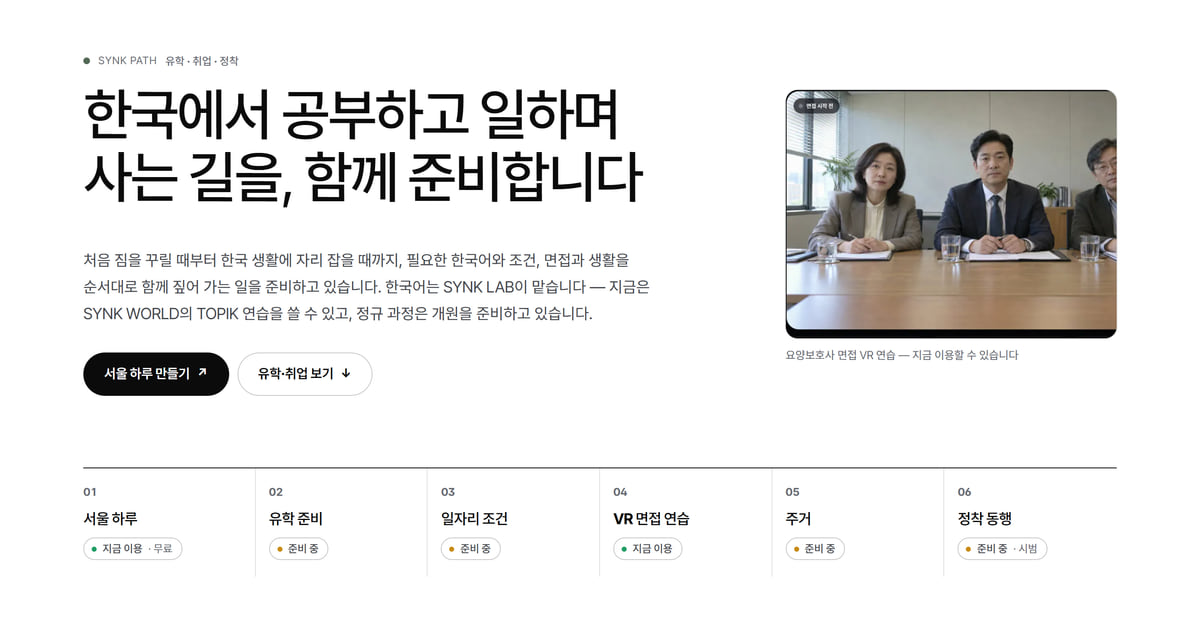
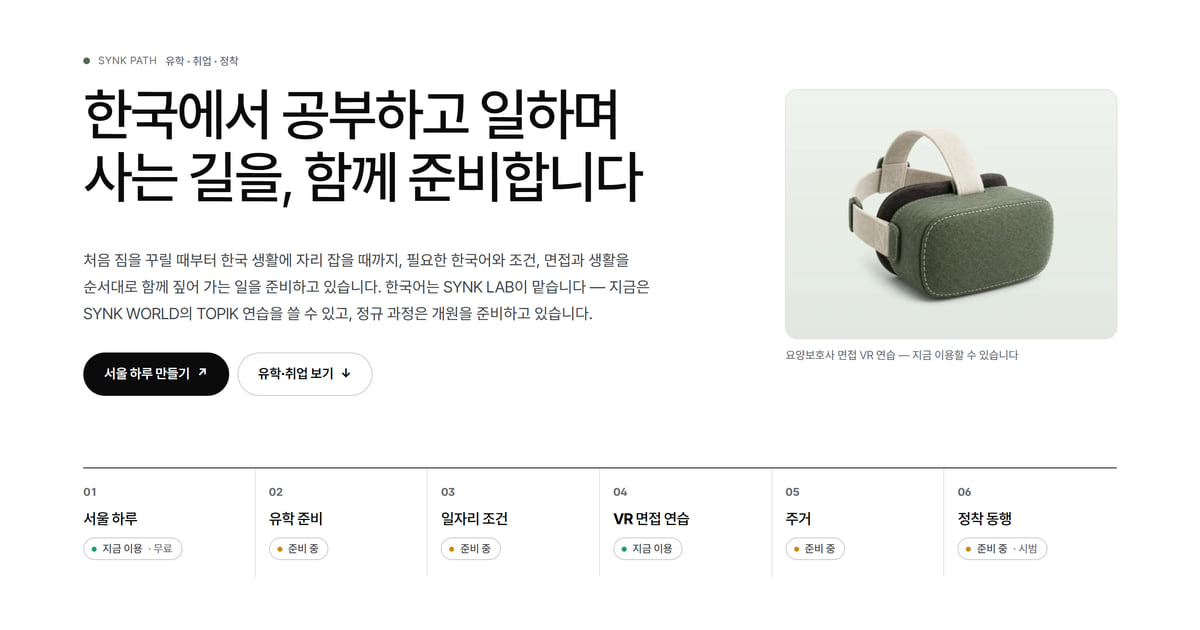
PATH opens with the green felt VR headset instead of the interviewers' faces: the hero of /path/ and /en/path/ shows the felt headset on the PATH stage colour (new 1200x900 picture and its 320/480/800 sizes), with the alt text that picture had in v10; the share images path-ko.jpg and path-en.jpg are

Changed region(s): [[0.6475, 0.1206, 0.9558, 0.5429]]

diff --git a/path/index.html b/path/index.html
@@ -10,7 +10,7 @@
 <link rel="canonical" href="https://synk.im/path/">
 <link rel="alternate" hreflang="ko" href="https://synk.im/path/"><link rel="alternate" hreflang="en" href="https://synk.im/en/path/"><link rel="alternate" hreflang="x-default" href="https://synk.im/path/">
 <meta property="og:type" content="website"><meta property="og:url" content="https://synk.im/path/"><meta property="og:title" content="SYNK PATH — 한국에서 공부하고 일하며 사는 길을, 함께 준비합니다"><meta property="og:description" content="SYNK PATH는 한국에서 공부하고 일하며 사는 길을 함께 준비합니다. 서울 하루 일정과 요양보호사 면접 VR 연습은 지금 써 볼 수 있고, 유학 준비와 일자리 조건 알아보기, 한국 생활 정착을 준비하고 있습니다.">
-<meta property="og:image" content="https://synk.im/assets/v10/og/path-ko.jpg?v=03eef2e7d2b2"><meta property="og:image:width" content="1200"><meta property="og:image:height" content="630"><meta property="og:image:alt" content="SYNK PATH 첫 화면 — 「한국에서 공부하고 일하며 사는 길을, 함께 준비합니다」와 VR 면접 연습 장면"><meta name="twitter:card" content="summary_large_image">
+<meta property="og:image" content="https://synk.im/assets/v10/og/path-ko.jpg?v=a5ef873d6728"><meta property="og:image:width" content="1200"><meta property="og:image:height" content="630"><meta property="og:image:alt" content="SYNK PATH 첫 화면 — 「한국에서 공부하고 일하며 사는 길을, 함께 준비합니다」와 초록 펠트 VR 헤드셋"><meta name="twitter:card" content="summary_large_image">
 <link rel="icon" type="image/png" sizes="16x16" href="/assets/favicon-synk-20260919-16.png"><link rel="icon" type="image/png" sizes="32x32" href="/assets/favicon-synk-20260919-32.png"><link rel="icon" type="image/png" sizes="48x48" href="/assets/favicon-synk-20260919-48.png">
 <link rel="preload" href="/assets/v10/suit-v10.woff2" as="font" type="font/woff2" crossorigin>
 <link rel="stylesheet" href="/assets/v10/site.css?v=bf743bfce9da">
@@ -30,7 +30,7 @@
 <section class="p-hero" id="top" aria-labelledby="p-title"><span id="path" class="sr-only" aria-hidden="true"></span><div class="wrap"><div class="p-hero-grid">
 <div class="p-hero-head"><p class="label"><i class="dot" aria-hidden="true"></i><span class="en">SYNK PATH</span><span>유학 · 취업 · 정착</span></p><h1 class="p-title" id="p-title"><span>한국에서 공부하고 일하며</span> <span>사는 길을, 함께 준비합니다</span></h1></div>
 <div class="p-hero-copy"><p class="lead">처음 짐을 꾸릴 때부터 한국 생활에 자리 잡을 때까지, 필요한 한국어와 조건, 면접과 생활을 순서대로 함께 짚어 가는 일을 준비하고 있습니다. 한국어는 SYNK LAB이 맡습니다 — 지금은 SYNK WORLD의 TOPIK 연습을 쓸 수 있고, 정규 과정은 개원을 준비하고 있습니다.</p><div class="btns"><a class="btn btn-dark" href="/try/travel/">서울 하루 만들기 <span class="arr" aria-hidden="true">↗</span></a><a class="btn btn-line" href="#study">유학·취업 보기 <span class="arr" aria-hidden="true">↓</span></a></div></div>
-<figure class="p-hero-media"><div class="p-frame"><img src="/assets/v10/a-vr-43.webp" srcset="/assets/v10/r/v10-a-vr-43-w320.webp 320w, /assets/v10/r/v10-a-vr-43-w480.webp 480w, /assets/v10/r/v10-a-vr-43-w800.webp 800w, /assets/v10/a-vr-43.webp 1200w" sizes="(max-width:620px) 92vw, (max-width:900px) 560px, 400px" alt="VR 면접 연습 장면. 회의실 탁자 앞에 면접관 세 명이 앉아 있다" width="1200" height="900" decoding="async" fetchpriority="high"></div><figcaption>요양보호사 면접 VR 연습 — 지금 이용할 수 있습니다</figcaption></figure></div>
+<figure class="p-hero-media"><div class="p-frame"><img src="/assets/v10/path-vr-felt-20261024.webp" srcset="/assets/v10/r/v10-path-vr-felt-20261024-w320.webp 320w, /assets/v10/r/v10-path-vr-felt-20261024-w480.webp 480w, /assets/v10/r/v10-path-vr-felt-20261024-w800.webp 800w, /assets/v10/path-vr-felt-20261024.webp 1200w" sizes="(max-width:620px) 92vw, (max-width:900px) 560px, 400px" alt="초록 펠트와 아이보리 실땀으로 만든 VR 헤드셋" width="1200" height="900" decoding="async" fetchpriority="high"></div><figcaption>요양보호사 면접 VR 연습 — 지금 이용할 수 있습니다</figcaption></figure></div>
 <nav class="p-index reveal" style="--n:6" aria-label="이 페이지에서"><a href="#travel"><span class="p-index-no" aria-hidden="true">01</span><b>서울 하루</b><span class="status">지금 이용 <small>· 무료</small></span></a><a href="#study"><span class="p-index-no" aria-hidden="true">02</span><b>유학 준비</b><span class="status soon">준비 중</span></a><a href="#work"><span class="p-index-no" aria-hidden="true">03</span><b>일자리 조건</b><span class="status soon">준비 중</span></a><a href="#vr"><span class="p-index-no" aria-hidden="true">04</span><b>VR 면접 연습</b><span class="status">지금 이용</span></a><a href="#settle"><span class="p-index-no" aria-hidden="true">05</span><b>주거</b><span class="status soon">준비 중</span></a><a href="#companion"><span class="p-index-no" aria-hidden="true">06</span><b>정착 동행</b><span class="status soon">준비 중 <small>· 시범</small></span></a></nav></div></section><section class="section" id="travel" aria-labelledby="travel-title"><span id="path-visit" class="sr-only" aria-hidden="true"></span><div class="wrap">
 <div class="sec-head reveal"><div><p class="label"><span class="en">01 · Seoul</span><span>서울 하루</span><span class="status">지금 이용 <small>· 무료</small></span></p><h2 class="h2" id="travel-title"><span>서울에서 세 시간,</span> <span>뭐 하지?</span></h2></div><div><p class="lead">하고 싶은 것과 쓸 수 있는 시간, 두 가지만 고르면 가입 없이 하루가 나옵니다. 종로·북촌·서촌에서 공식 안내를 확인한 실제 장소로 짜고, 마음에 안 드는 곳은 그 자리만 바꾸면 됩니다.</p><div class="btns trip-go"><a class="btn btn-dark" href="/try/travel/">서울 하루 만들기 <span class="arr" aria-hidden="true">↗</span></a></div></div></div>
 <div class="trip-scroll reveal" data-scroll-x data-scroll-label="서울 하루 만들기 세 단계"><ol class="trip"><li class="trip-step"><span class="trip-pin" aria-hidden="true"><b>1</b></span><h3 class="trip-q">오늘, 뭐 하고 싶어요?</h3><p class="trip-text">맛있는 한 끼, 차 한 잔, 전시, 궁궐, 골목, 시장 가운데 세 개까지 고릅니다.</p><figure class="trip-shot"><img src="/assets/v10/path-trip-1-20261019.webp" srcset="/assets/v10/r/v10-path-trip-1-20261019-w320.webp 320w, /assets/v10/r/v10-path-trip-1-20261019-w480.webp 480w, /assets/v10/path-trip-1-20261019.webp 780w" sizes="(max-width:900px) 66vw, 300px" alt="서울 여행 첫 화면. 여섯 가지 가운데 차 한 잔과 궁궐·역사를 골랐다" width="780" height="1360" loading="lazy" decoding="async"></figure></li><li class="trip-step"><span class="trip-pin" aria-hidden="true"><b>2</b></span><h3 class="trip-q">몇 시간 있어요?</h3><p class="trip-text">1시간부터 하루까지 고르면, 몇 곳이 들어가는지 먼저 알려 줍니다.</p><figure class="trip-shot"><img src="/assets/v10/path-trip-2-20261019.webp" srcset="/assets/v10/r/v10-path-trip-2-20261019-w320.webp 320w, /assets/v10/r/v10-path-trip-2-20261019-w480.webp 480w, /assets/v10/path-trip-2-20261019.webp 780w" sizes="(max-width:900px) 66vw, 300px" alt="시간을 고르는 화면. 3시간을 고르자 세 곳쯤 들어간다고 알려 준다" width="780" height="1360" loading="lazy" decoding="async"></figure></li><li class="trip-step"><span class="trip-pin" aria-hidden="true"><b>3</b></span><h3 class="trip-q">이렇게 다녀오세요</h3><p class="trip-text">들를 순서와 도착 시각, 걷는 시간과 머무는 시간이 한눈에 나옵니다.</p><figure class="trip-shot"><img src="/assets/v10/path-trip-3-20261019.webp" srcset="/assets/v10/r/v10-path-trip-3-20261019-w320.webp 320w, /assets/v10/r/v10-path-trip-3-20261019-w480.webp 480w, /assets/v10/path-trip-3-20261019.webp 780w" sizes="(max-width:900px) 66vw, 300px" alt="하루 일정 화면. 차·궁궐로 채운 3시간, 안국역에서 운현궁·어니언 안국·북촌 한옥마을로 가는 경로와 머무름·걷기·여유 시간 막대" width="780" height="1360" loading="lazy" decoding="async"></figure></li></ol></div>

diff --git a/en/path/index.html b/en/path/index.html
@@ -10,7 +10,7 @@
 <link rel="canonical" href="https://synk.im/en/path/">
 <link rel="alternate" hreflang="ko" href="https://synk.im/path/"><link rel="alternate" hreflang="en" href="https://synk.im/en/path/"><link rel="alternate" hreflang="x-default" href="https://synk.im/path/">
 <meta property="og:type" content="website"><meta property="og:url" content="https://synk.im/en/path/"><meta property="og:title" content="SYNK PATH — Studying, working and living in Korea, prepared with you"><meta property="og:description" content="SYNK PATH helps you prepare to study, work and live in Korea. The Seoul day planner and caregiver interview practice in VR are available now; help with preparing to study, looking into job requirements and settling into life in Korea is in preparation.">
-<meta property="og:image" content="https://synk.im/assets/v10/og/path-en.jpg?v=0b9dc18c3ad5"><meta property="og:image:width" content="1200"><meta property="og:image:height" content="630"><meta property="og:image:alt" content="The SYNK PATH page: “Studying, working and living in Korea, prepared with you” beside a VR interview practice scene"><meta name="twitter:card" content="summary_large_image">
+<meta property="og:image" content="https://synk.im/assets/v10/og/path-en.jpg?v=e5b716d9f999"><meta property="og:image:width" content="1200"><meta property="og:image:height" content="630"><meta property="og:image:alt" content="The SYNK PATH page: “Studying, working and living in Korea, prepared with you” beside a green felt VR headset"><meta name="twitter:card" content="summary_large_image">
 <link rel="icon" type="image/png" sizes="16x16" href="/assets/favicon-synk-20260919-16.png"><link rel="icon" type="image/png" sizes="32x32" href="/assets/favicon-synk-20260919-32.png"><link rel="icon" type="image/png" sizes="48x48" href="/assets/favicon-synk-20260919-48.png">
 <link rel="preload" href="/assets/v10/suit-v10.woff2" as="font" type="font/woff2" crossorigin>
 <link rel="stylesheet" href="/assets/v10/site.css?v=bf743bfce9da">
@@ -31,7 +31,7 @@
 <section class="p-hero" id="top" aria-labelledby="p-title"><span id="path" class="sr-only" aria-hidden="true"></span><div class="wrap"><div class="p-hero-grid">
 <div class="p-hero-head"><p class="label"><i class="dot" aria-hidden="true"></i><span class="en">SYNK PATH</span><span>Study · work · settling in</span></p><h1 class="p-title" id="p-title"><span>Studying, working and living</span> <span>in Korea, prepared with you</span></h1></div>
 <div class="p-hero-copy"><p class="lead">From packing your bags to settling into life in Korea, we are preparing to work through the Korean you need, the requirements, interviews and daily life with you, one step at a time. SYNK LAB takes care of the Korean — SYNK WORLD’s TOPIK practice is open now, and we are preparing to open the one-year course.</p><div class="btns"><a class="btn btn-dark" href="/try/travel/">Plan a day in Seoul (Korean) <span class="arr" aria-hidden="true">↗</span></a><a class="btn btn-line" href="#study">See study and work <span class="arr" aria-hidden="true">↓</span></a></div></div>
-<figure class="p-hero-media"><div class="p-frame"><img src="/assets/v10/a-vr-43.webp" srcset="/assets/v10/r/v10-a-vr-43-w320.webp 320w, /assets/v10/r/v10-a-vr-43-w480.webp 480w, /assets/v10/r/v10-a-vr-43-w800.webp 800w, /assets/v10/a-vr-43.webp 1200w" sizes="(max-width:620px) 92vw, (max-width:900px) 560px, 400px" alt="A VR interview practice scene: three interviewers seated at a meeting-room table" width="1200" height="900" decoding="async" fetchpriority="high"></div><figcaption>Caregiver interview practice in VR — available now</figcaption></figure></div>
+<figure class="p-hero-media"><div class="p-frame"><img src="/assets/v10/path-vr-felt-20261024.webp" srcset="/assets/v10/r/v10-path-vr-felt-20261024-w320.webp 320w, /assets/v10/r/v10-path-vr-felt-20261024-w480.webp 480w, /assets/v10/r/v10-path-vr-felt-20261024-w800.webp 800w, /assets/v10/path-vr-felt-20261024.webp 1200w" sizes="(max-width:620px) 92vw, (max-width:900px) 560px, 400px" alt="A VR headset made of green felt with ivory stitching" width="1200" height="900" decoding="async" fetchpriority="high"></div><figcaption>Caregiver interview practice in VR — available now</figcaption></figure></div>
 <nav class="p-index reveal" style="--n:6" aria-label="On this page"><a href="#travel"><span class="p-index-no" aria-hidden="true">01</span><b>A day in Seoul</b><span class="status">Live <small>· Free</small></span></a><a href="#study"><span class="p-index-no" aria-hidden="true">02</span><b>Preparing to study</b><span class="status soon">In preparation</span></a><a href="#work"><span class="p-index-no" aria-hidden="true">03</span><b>Job requirements</b><span class="status soon">In preparation</span></a><a href="#vr"><span class="p-index-no" aria-hidden="true">04</span><b>VR interview practice</b><span class="status">Live</span></a><a href="#settle"><span class="p-index-no" aria-hidden="true">05</span><b>Housing</b><span class="status soon">In preparation</span></a><a href="#companion"><span class="p-index-no" aria-hidden="true">06</span><b>Settle Together</b><span class="status soon">In preparation <small>· Pilot</small></span></a></nav></div></section><section class="section" id="travel" aria-labelledby="travel-title"><span id="path-visit" class="sr-only" aria-hidden="true"></span><div class="wrap">
 <div class="sec-head reveal"><div><p class="label"><span class="en">01 · Seoul</span><span class="status">Live <small>· Free</small></span></p><h2 class="h2" id="travel-title"><span>Three hours in Seoul,</span> <span>what will you do?</span></h2></div><div><p class="lead">Pick what you feel like doing and how much time you have, and your day is planned — no sign-up needed. It uses real places around Jongno, Bukchon and Seochon, checked against official information, and you can swap out any stop you don’t like. The planner is in Korean.</p><div class="btns trip-go"><a class="btn btn-dark" href="/try/travel/">Plan a day (Korean) <span class="arr" aria-hidden="true">↗</span></a></div></div></div>
 <div class="trip-scroll reveal" data-scroll-x data-scroll-label="Three steps to a day in Seoul"><ol class="trip"><li class="trip-step"><span class="trip-pin" aria-hidden="true"><b>1</b></span><h3 class="trip-q">What do you feel like today?</h3><p class="trip-text">Pick up to three: a good meal, a cup of tea, an exhibition, palaces, alleys or a market.</p><figure class="trip-shot"><img src="/assets/v10/path-trip-1-20261019.webp" srcset="/assets/v10/r/v10-path-trip-1-20261019-w320.webp 320w, /assets/v10/r/v10-path-trip-1-20261019-w480.webp 480w, /assets/v10/path-trip-1-20261019.webp 780w" sizes="(max-width:900px) 66vw, 300px" alt="The planner’s first screen, in Korean: six things to do, with tea and palaces picked" width="780" height="1360" loading="lazy" decoding="async"></figure></li><li class="trip-step"><span class="trip-pin" aria-hidden="true"><b>2</b></span><h3 class="trip-q">How much time do you have?</h3><p class="trip-text">Choose anything from an hour to a full day, and it tells you first how many places will fit.</p><figure class="trip-shot"><img src="/assets/v10/path-trip-2-20261019.webp" srcset="/assets/v10/r/v10-path-trip-2-20261019-w320.webp 320w, /assets/v10/r/v10-path-trip-2-20261019-w480.webp 480w, /assets/v10/path-trip-2-20261019.webp 780w" sizes="(max-width:900px) 66vw, 300px" alt="Choosing the time, in Korean: with three hours picked, about three places will fit" width="780" height="1360" loading="lazy" decoding="async"></figure></li><li class="trip-step"><span class="trip-pin" aria-hidden="true"><b>3</b></span><h3 class="trip-q">Here is your day</h3><p class="trip-text">The order of stops, arrival times, walking and time at each place, all in one view.</p><figure class="trip-shot"><img src="/assets/v10/path-trip-3-20261019.webp" srcset="/assets/v10/r/v10-path-trip-3-20261019-w320.webp 320w, /assets/v10/r/v10-path-trip-3-20261019-w480.webp 480w, /assets/v10/path-trip-3-20261019.webp 780w" sizes="(max-width:900px) 66vw, 300px" alt="The finished day, in Korean: three hours of tea and palaces, a route from Anguk Station through three places, with a bar for time spent, walking and spare time" width="780" height="1360" loading="lazy" decoding="async"></figure></li></ol></div>
